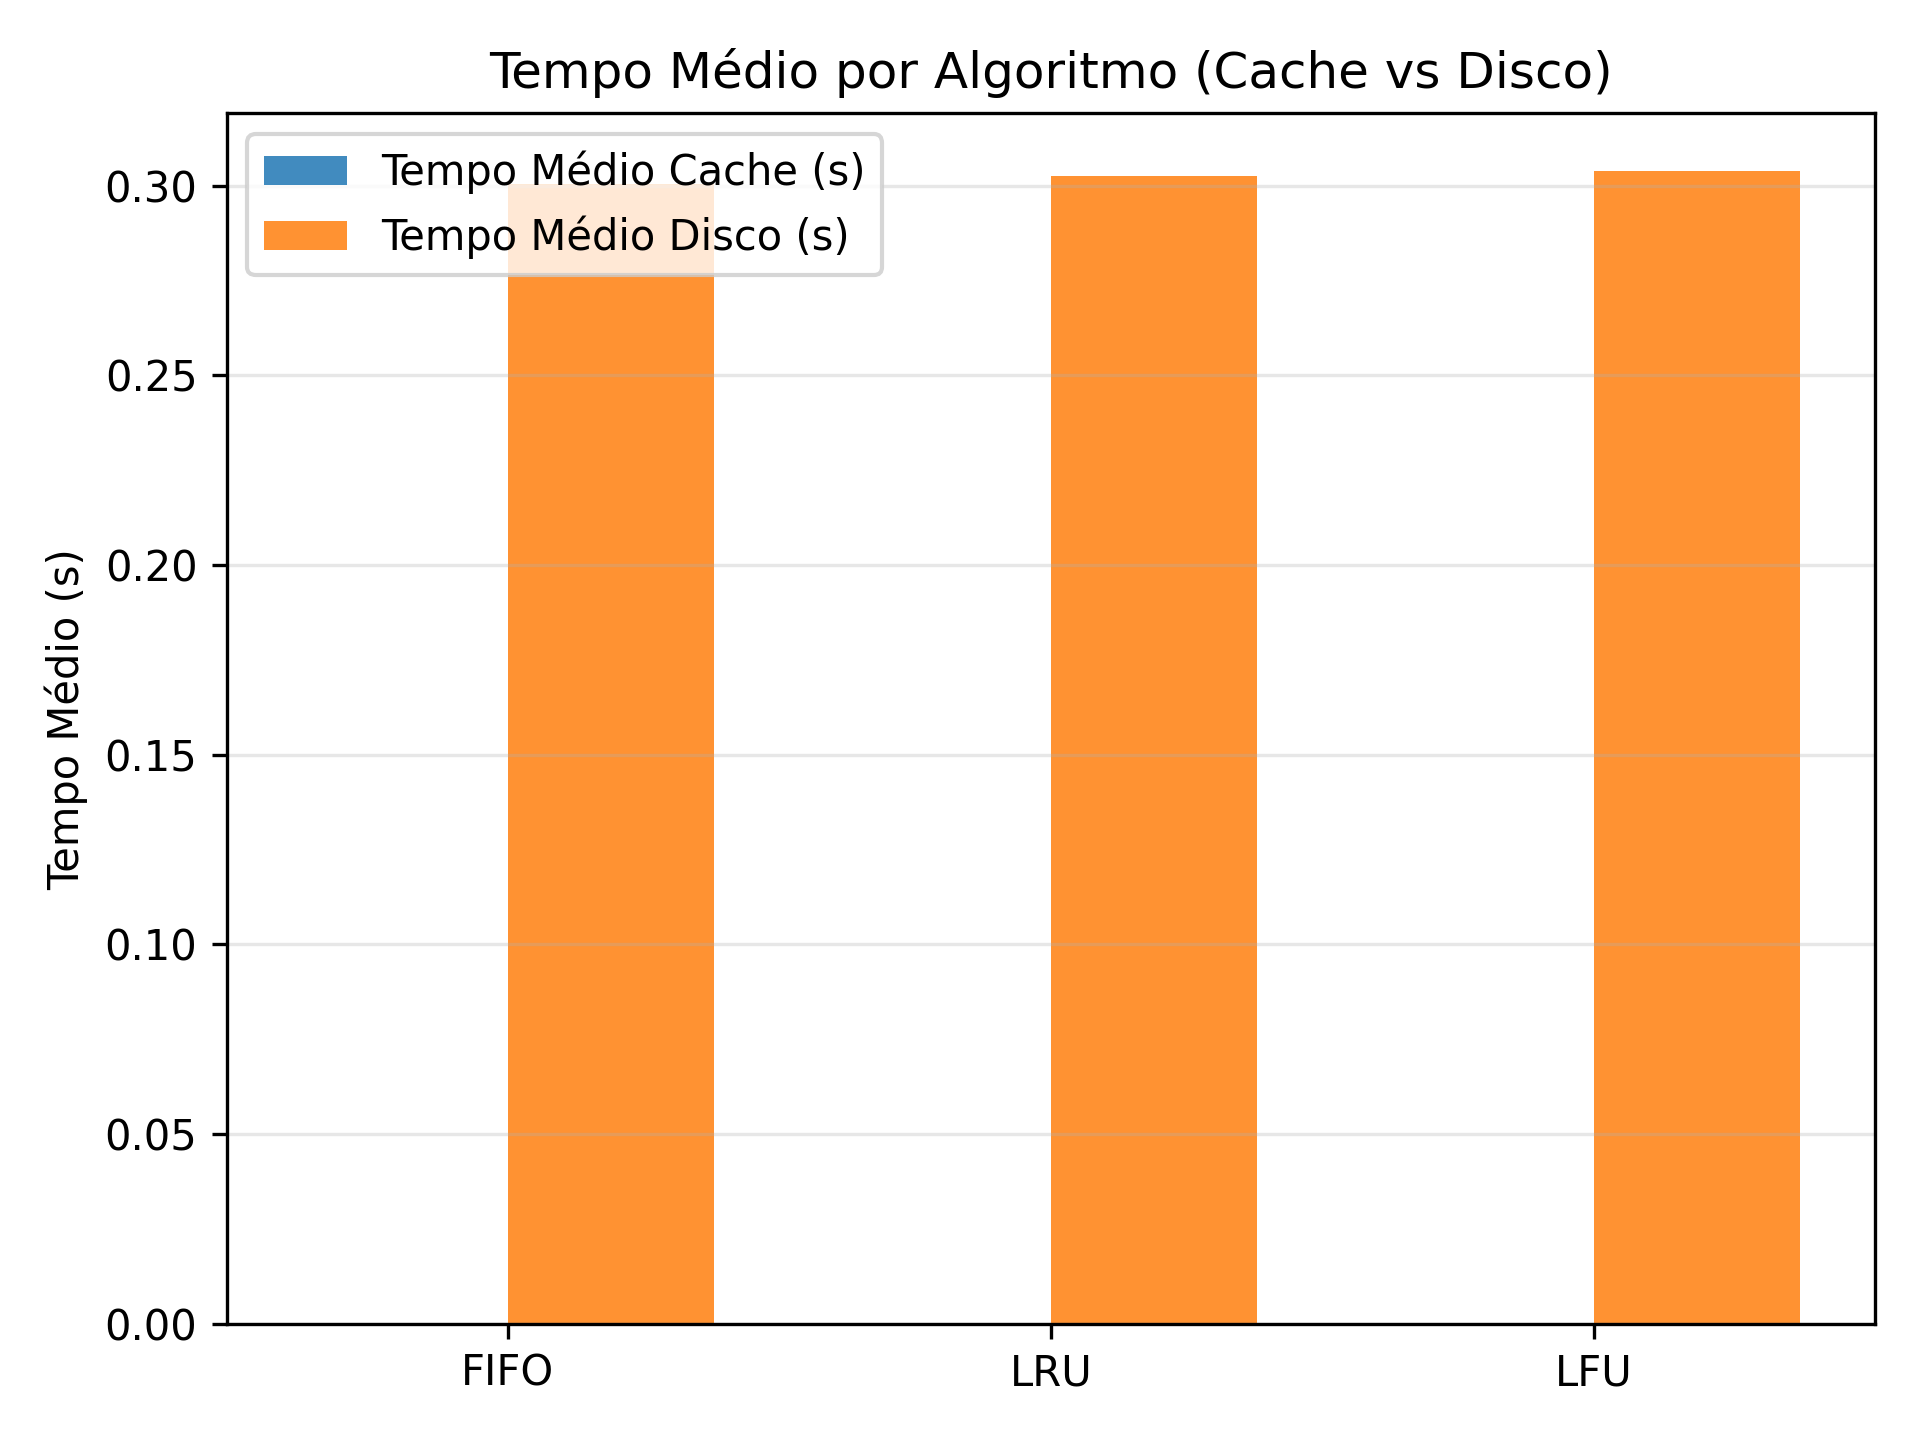
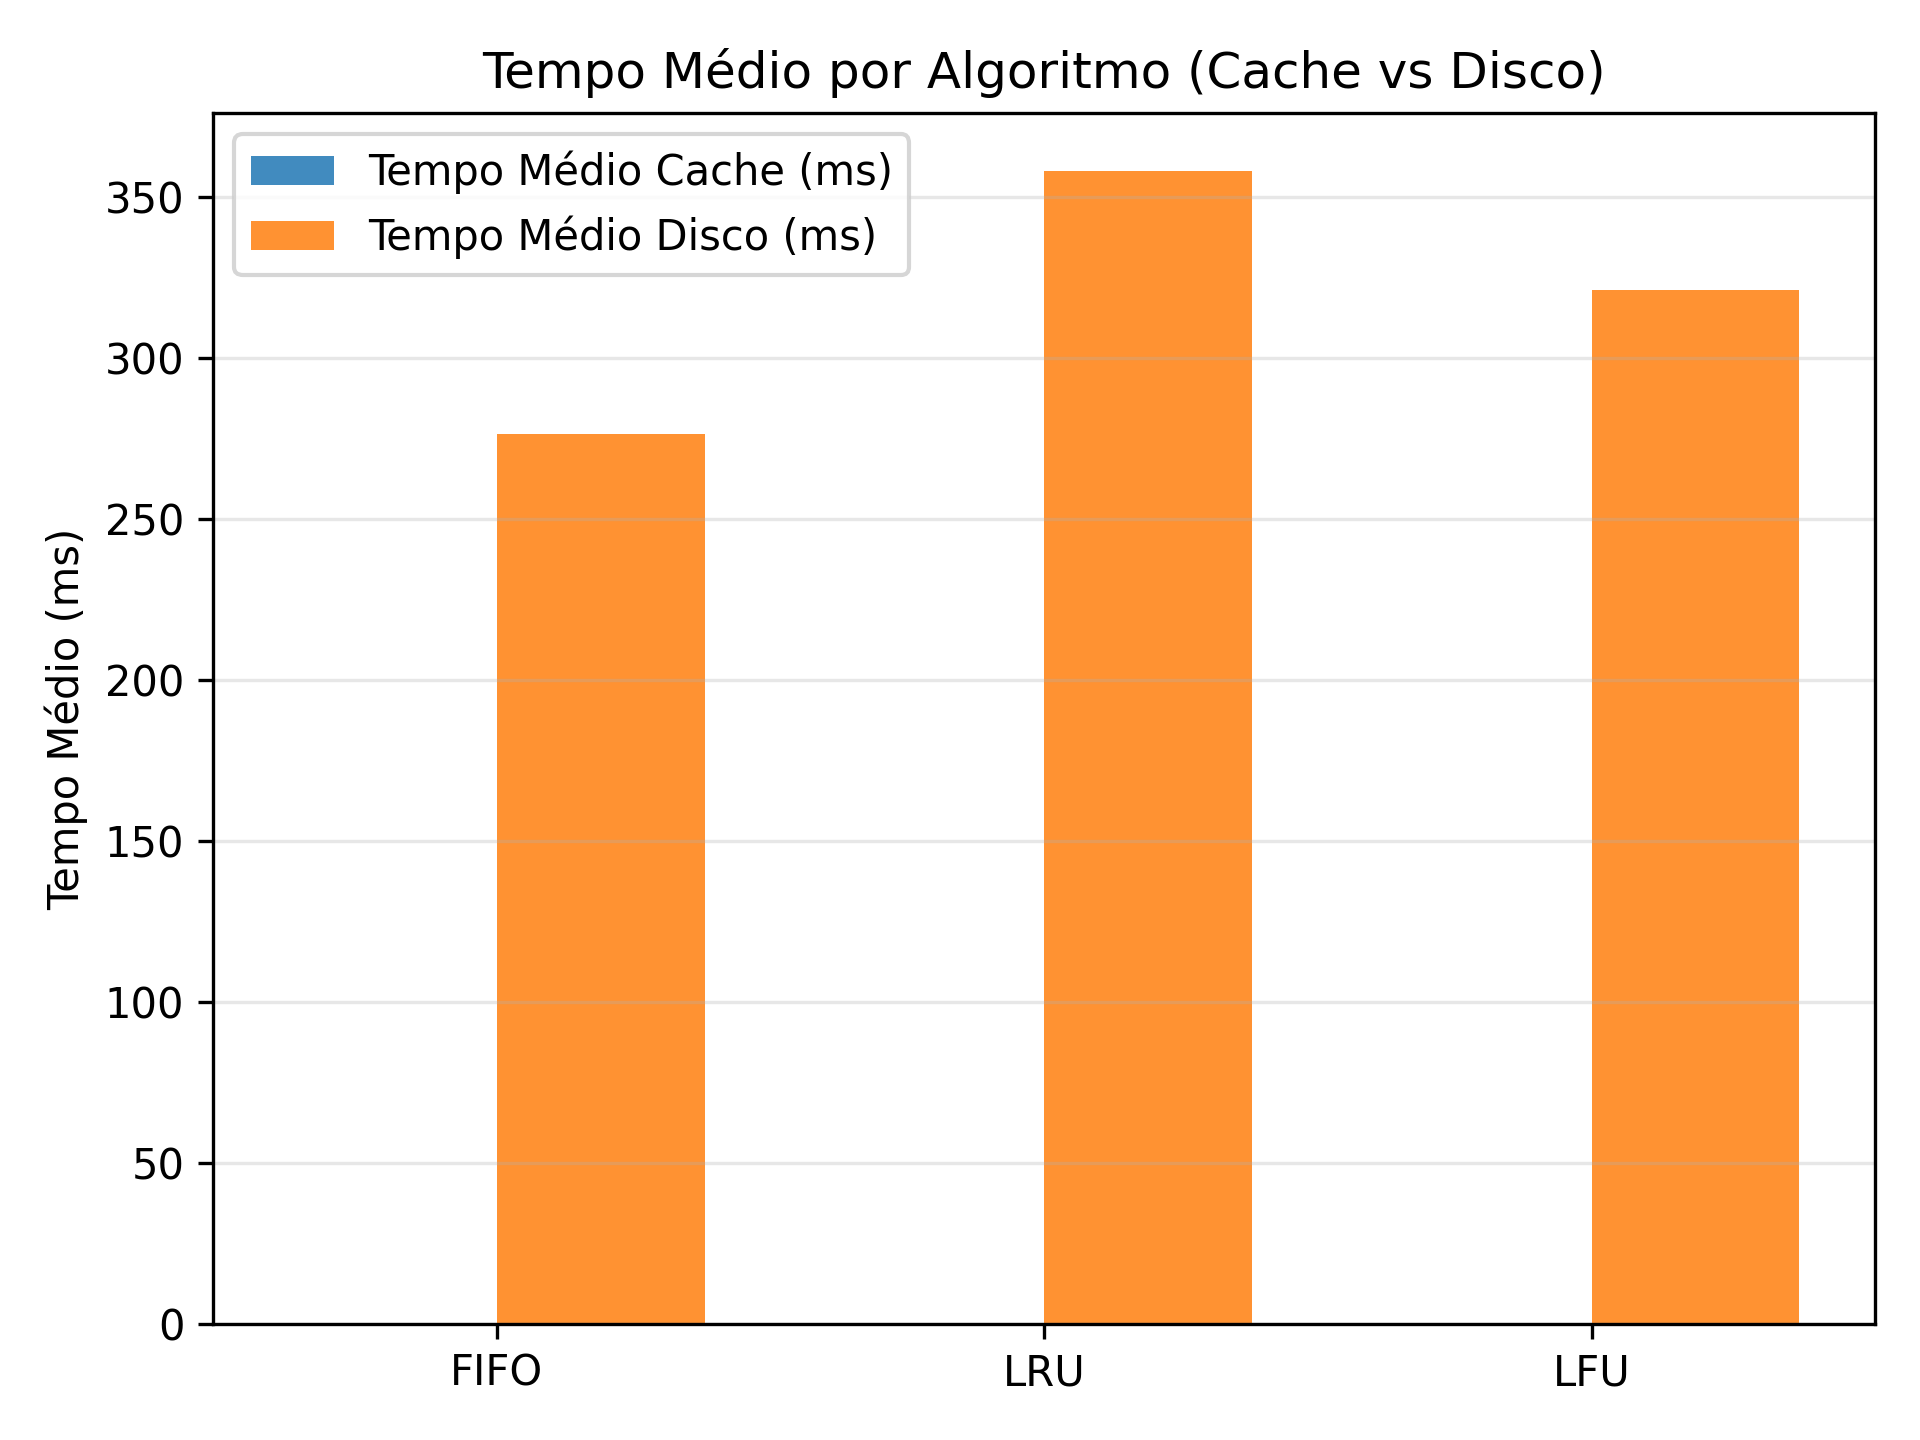
mudanças e adicionar o grafico

diff --git a/Simulacao/Simulador.py b/Simulacao/Simulador.py
@@ -1,4 +1,3 @@
-import os
 import time
 import matplotlib.pyplot as plt
 import numpy as np
@@ -12,30 +11,22 @@ from Simulacao.Probabilidade import Probabilidade
 class Simulador:
     def __init__(self):
         self.carregador = CarregadorDeTexto("Textos/")
-        self.ids_existentes = {
-            int(fn[5:-4]) for fn in os.listdir("Textos")
-            if fn.startswith("texto") and fn.endswith(".txt") and fn[5:-4].isdigit()
-        }
-        print(f"Arquivos detectados: {sorted(self.ids_existentes)}")
     
     def executar(self):
-        print(f"Iniciando simulação com {len(self.ids_existentes)} textos disponíveis.")
         usuarios = Probabilidade.gerar_usuarios(3, 200)
         algoritmos = [("FIFO", FIFO), ("LRU",LRU), ("LFU",LFU)]
         resultados = []
 
         for nome, ClasseAlgoritimo in algoritmos:
-            print(f"\nSimulando com o algoritmo: {nome}")
+            print(f"\nResultados do algoritmo {nome}:")
             metrica_total = Metrica(ClasseAlgoritimo()) 
+            cache = ClasseAlgoritimo()
 
             for usuario in usuarios:
                 for _, solicitacoes in usuario["solicitacoes"].items():
-                    cache = ClasseAlgoritimo()
                     metrica_cenario = Metrica(cache)
 
                     for texto_id in solicitacoes:
-                        if texto_id not in self.ids_existentes:
-                            continue
                         inicio = time.time()
                         texto = cache.buscar_texto(texto_id)
 
@@ -54,6 +45,9 @@ class Simulador:
                     metrica_total.misses += metrica_cenario.misses
                     metrica_total.t_cache.extend(metrica_cenario.t_cache)
                     metrica_total.t_disco.extend(metrica_cenario.t_disco)
+
+                    for texto_id, qtd in metrica_cenario.misses_texto.items():
+                        metrica_total.misses_texto[texto_id] += qtd
 
             resultados.append((nome, metrica_total))
             taxa = metrica_total.taxa_hit()
@@ -109,6 +103,29 @@ class Simulador:
         plt.tight_layout()
         plt.savefig('comparacao_tempo_medio.png', dpi=300)
         plt.show()
+
+        from collections import defaultdict
+        misses_totais = defaultdict(int)
+        for _, m in resultados:
+            for texto_id, qtd in m.misses_texto.items():
+                misses_totais[texto_id] += qtd
+        
+        if misses_totais:
+            top = sorted(misses_totais.items(), key=lambda item: item[1], reverse=True)[:10]
+            labels = [f"texto {tid}" for tid, _ in top]
+            valores = [q for _, q in top]
+
+            plt.figure()
+            bars3 = plt.bar(labels, valores, alpha=0.85)
+            plt.ylabel('Número de Misses')
+            plt.title('Top 10 Textos com Mais Misses (Todos Algoritmos)')
+            for b, v in zip(bars3, valores):
+                plt.text(b.get_x() + b.get_width() / 2, b.get_height()+0.5, f"{v}", ha='center', va='bottom')
+            plt.xticks(rotation=30, ha='right')
+            plt.grid(True, axis='y', alpha=0.3)
+            plt.tight_layout()
+            plt.savefig('top10_misses_textos.png', dpi=300)
+            plt.show()
 
         print("\nGráficos gerados: ")
         print(" - comparacao_taxa_hits.png (Taxa de Hit)")

diff --git a/Algoritimo/LRU.py b/Algoritimo/LRU.py
@@ -10,14 +10,7 @@ class LRU(Cache):
         self.ultimo_uso = []
 
     def buscar_texto(self, numero_texto):
-        if numero_texto in self.cache:
-            self.hits += 1
-            self.ultimo_uso.remove(numero_texto)
-            self.ultimo_uso.append(numero_texto)
-            return self.cache[numero_texto]
-        else:
-            self.misses += 1
-            return None
+            return self.cache.get(numero_texto, None)
 
     def adicionar_texto(self, numero_texto, texto):
         if numero_texto in self.cache:

diff --git a/Algoritimo/LFU.py b/Algoritimo/LFU.py
@@ -11,13 +11,7 @@ class LFU(Cache):
         self.frequencia = {}
 
     def buscar_texto(self, numero_texto):
-        if numero_texto in self.cache:
-            self.frequencia[numero_texto] += 1
-            self.hits += 1
-            return self.cache[numero_texto]
-        else:
-            self.misses += 1
-            return None
+            return self.cache.get(numero_texto, None)
 
     def adicionar_texto(self, numero_texto, texto):
         if numero_texto in self.cache:

diff --git a/Algoritimo/FIFO.py b/Algoritimo/FIFO.py
@@ -10,12 +10,7 @@ class FIFO(Cache):
         self.fila = []
 
     def buscar_texto(self, numero_texto):
-        if numero_texto in self.cache:
-            self.hits += 1
-            return self.cache[numero_texto]
-        else:
-            self.misses += 1
-            return None
+            return self.cache.get(numero_texto, None)
 
     def adicionar_texto(self, numero_texto, texto):
         if numero_texto in self.cache:
